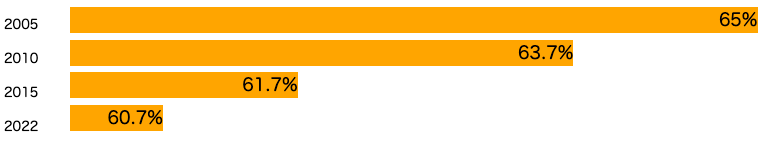
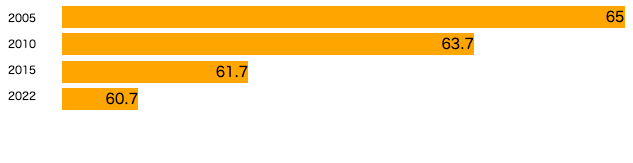
Align image dimensions

diff --git a/index.html b/index.html
@@ -47,7 +47,7 @@
           <div class="col-lg-6 mb-4">
             <div class="card2">
               <div class="bg-image hover-overlay ripple" data-mdb-ripple-color="light">
-                <img src="https://mdbootstrap.com/img/new/standard/nature/023.jpg" class="img-fluid" />
+                <img src="img/svg_bars.png" class="img-fluid" />
                 <a href="#!">
                   <div class="mask" style="background-color: rgba(251, 251, 251, 0.15);"></div>
                 </a>
@@ -58,7 +58,7 @@
                   Some quick example text to build on the card title and make up the bulk of the
                   card's content.
                 </p>
-                <a href="#!" class="btn btn-primary">View</a>
+                <a href="html/svg_bars.html" class="btn btn-primary">View</a>
               </div>
             </div>
           </div>

diff --git a/html/svg_bars.html b/html/svg_bars.html
@@ -101,7 +101,7 @@
       .attr("x", d => d**2 - 4000)
       .attr("y", (d, i) => 30 + (i * 40))
       .attr("class", "bar-text")
-      .text(d => d + "%");
+      .text(d => d);
   </script>  
 </body>
 </html>

diff --git a/html/div_bars.html b/html/div_bars.html
@@ -102,7 +102,7 @@
       .append("div")
       .attr("class", "bar")
       .style("width", d => (d**2 - 3600) + "px")
-      .text(d => d + "%");
+      .text(d => d);
   </script>  
 </body>
 </html>
